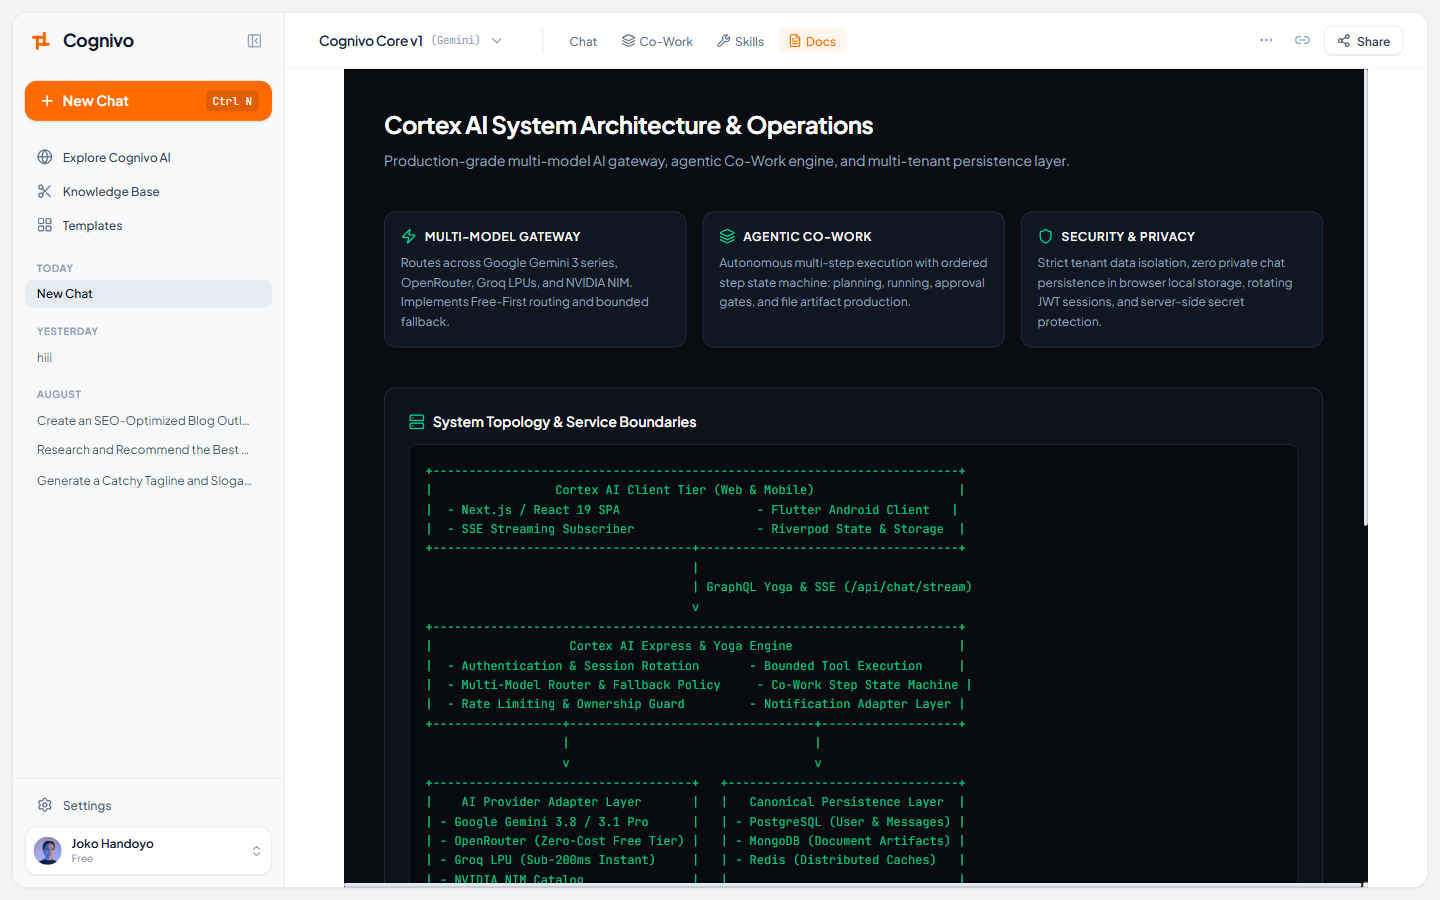
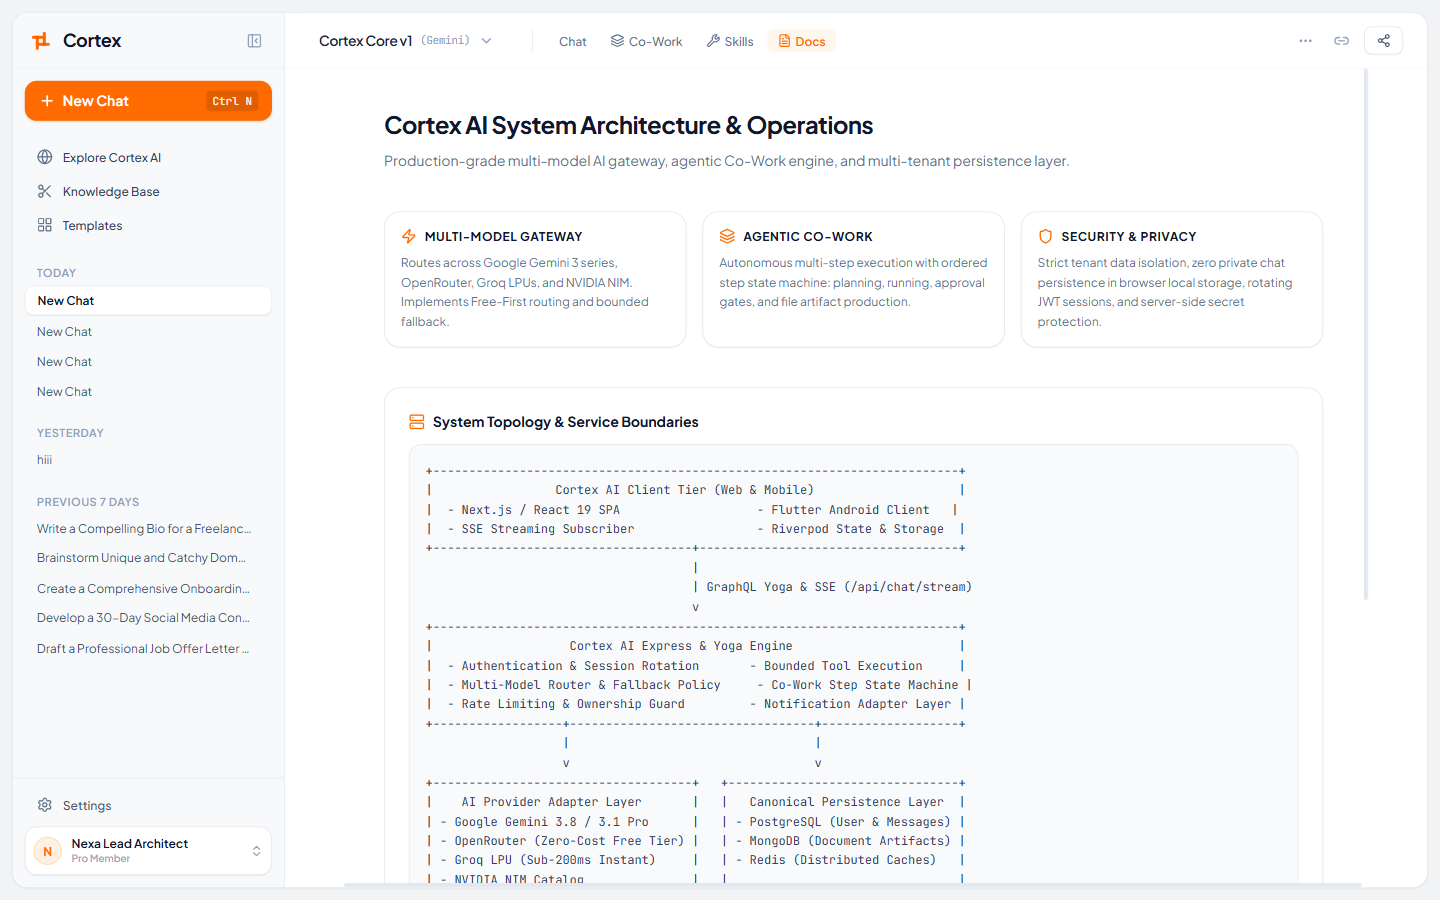
docs: update README.md with newly captured live screenshots and responsive proofs

diff --git a/README.md b/README.md
@@ -24,65 +24,67 @@
 
 Experience Cortex running in production with verified responsive UI workflows:
 
-### 1. High-Velocity Streaming Chat & Rich Markdown
-Real-time token streaming with sub-second latency, developer prompt presets, formatted GFM tables, syntax-highlighted code blocks, and one-click `.md` / `.json` conversation export.
+### 1. Unified Light-Theme Workspace & Smart Conversation Canvas
+Pixel-consistent design using established project tokens (`#FFFFFF`, `#F1F3F5`, `#FF6B00` brand accent), authenticated user profile with uppercase initials avatar fallback, and responsive action prompt cards.
 
 <div align="center">
-  <img src="docs/screenshots/01-cortex-chat-interface.png" alt="Cortex Real-time Chat & Markdown" width="95%" style="border-radius: 8px; border: 1px solid #233145;" />
+  <img src="docs/qa/screenshots/desktop-chat.png" alt="Cortex Real-time Chat & Markdown" width="95%" style="border-radius: 8px; border: 1px solid #E5E7EB;" />
 </div>
 
 <br />
 
-### 2. Autonomous Agentic Co-Work Workspace
-Multi-step goal decomposition state machine (`pending` → `running` → `completed`), bounded tool execution, and inspectable artifact diffing.
+### 2. Multi-Device Responsive Architecture (Mobile, Tablet & Desktop)
+Seamless layout adaptation across standard mobile (390px), small mobile (320px), tablet (768px), and desktop (1440px) with sliding drawer navigation and responsive composer wrapping:
 
 <div align="center">
-  <img src="docs/screenshots/02-cortex-cowork-workspace.png" alt="Cortex Co-Work Agentic Workspace" width="95%" style="border-radius: 8px; border: 1px solid #233145;" />
+  <table width="100%">
+    <tr>
+      <td width="50%" align="center">
+        <strong>Standard Mobile (390 × 844 px)</strong><br />
+        <img src="docs/qa/screenshots/mobile-chat.png" alt="Mobile Viewport Proof" width="100%" style="border-radius: 8px; border: 1px solid #E5E7EB;" />
+      </td>
+      <td width="50%" align="center">
+        <strong>Tablet (768 × 1024 px)</strong><br />
+        <img src="docs/qa/screenshots/tablet-chat.png" alt="Tablet Viewport Proof" width="100%" style="border-radius: 8px; border: 1px solid #E5E7EB;" />
+      </td>
+    </tr>
+  </table>
 </div>
 
 <br />
 
-### 3. Curated Personas & Workflow Skills
-Specialized system personas including **Software Engineer**, **Code Reviewer**, **Technical Researcher**, and **Document Analyst** equipped with bounded workspace toolsets.
+### 3. Dedicated Workspace Sharing & Access Permissions
+Modal sharing control featuring native `navigator.share` integration, one-click clipboard copying, and configurable collaborator access scopes (`Anyone with the link` vs. `Public & Discoverable`):
 
 <div align="center">
-  <img src="docs/screenshots/03-cortex-skills-and-personas.png" alt="Cortex Skills & Personas" width="95%" style="border-radius: 8px; border: 1px solid #233145;" />
+  <img src="docs/qa/screenshots/desktop-share-modal.png" alt="Cortex Share Modal" width="95%" style="border-radius: 8px; border: 1px solid #E5E7EB;" />
 </div>
 
 <br />
 
-### 4. Multi-Provider Dynamic Model Router
-Intelligent routing across **Google Gemini**, **OpenRouter**, **Groq LPUs**, and **NVIDIA NIM** with Free-First zero-cost cost optimization and seamless fallback.
+### 4. Multichannel Notification Center (Redesigned Light Theme)
+Real-time delivery channel configuration (In-App, SMTP Email, FCM Push, WhatsApp Cloud API) with live verification dispatching and activity event logs matching project design tokens:
 
 <div align="center">
-  <img src="docs/screenshots/04-cortex-model-router.png" alt="Cortex Model Selector Modal" width="95%" style="border-radius: 8px; border: 1px solid #233145;" />
+  <img src="docs/qa/screenshots/desktop-notification-light.png" alt="Cortex Notification Center Light" width="95%" style="border-radius: 8px; border: 1px solid #E5E7EB;" />
 </div>
 
 <br />
 
-### 5. System Topology & Operational Architecture
-Interactive architecture documentation detailing client tiers, Express/Yoga service boundaries, bounded tool safety gates, and multi-tenant persistence layers.
+### 5. Autonomous Agentic Co-Work Workspace
+Multi-step goal decomposition state machine (`pending` → `running` → `completed`), bounded tool execution, and inspectable artifact diffing:
 
 <div align="center">
-  <img src="docs/screenshots/05-cortex-architecture-and-docs.png" alt="Cortex System Architecture & Ops" width="95%" style="border-radius: 8px; border: 1px solid #233145;" />
+  <img src="docs/qa/screenshots/desktop-cowork.png" alt="Cortex Co-Work Agentic Workspace" width="95%" style="border-radius: 8px; border: 1px solid #E5E7EB;" />
 </div>
 
 <br />
 
-### 6. Command Palette & Keyboard Shortcuts
-Global modal navigation (`Ctrl+K` / `⌘K`) for rapid context switching, new conversation creation, and view hopping.
+### 6. System Topology & Operational Architecture
+Interactive architecture documentation detailing client tiers, Express/Yoga service boundaries, bounded tool safety gates, and multi-tenant persistence layers:
 
 <div align="center">
-  <img src="docs/screenshots/06-cortex-keyboard-shortcuts.png" alt="Cortex Keyboard Shortcuts" width="95%" style="border-radius: 8px; border: 1px solid #233145;" />
-</div>
-
-<br />
-
-### 7. Multichannel Notification Center
-Real-time preference controls and audit trail across in-app toasts, email alerts, push notifications, and webhook channels.
-
-<div align="center">
-  <img src="docs/screenshots/07-cortex-notification-center.png" alt="Cortex Notification Center" width="95%" style="border-radius: 8px; border: 1px solid #233145;" />
+  <img src="docs/qa/screenshots/desktop-docs.png" alt="Cortex System Architecture & Ops" width="95%" style="border-radius: 8px; border: 1px solid #E5E7EB;" />
 </div>
 
 ---
